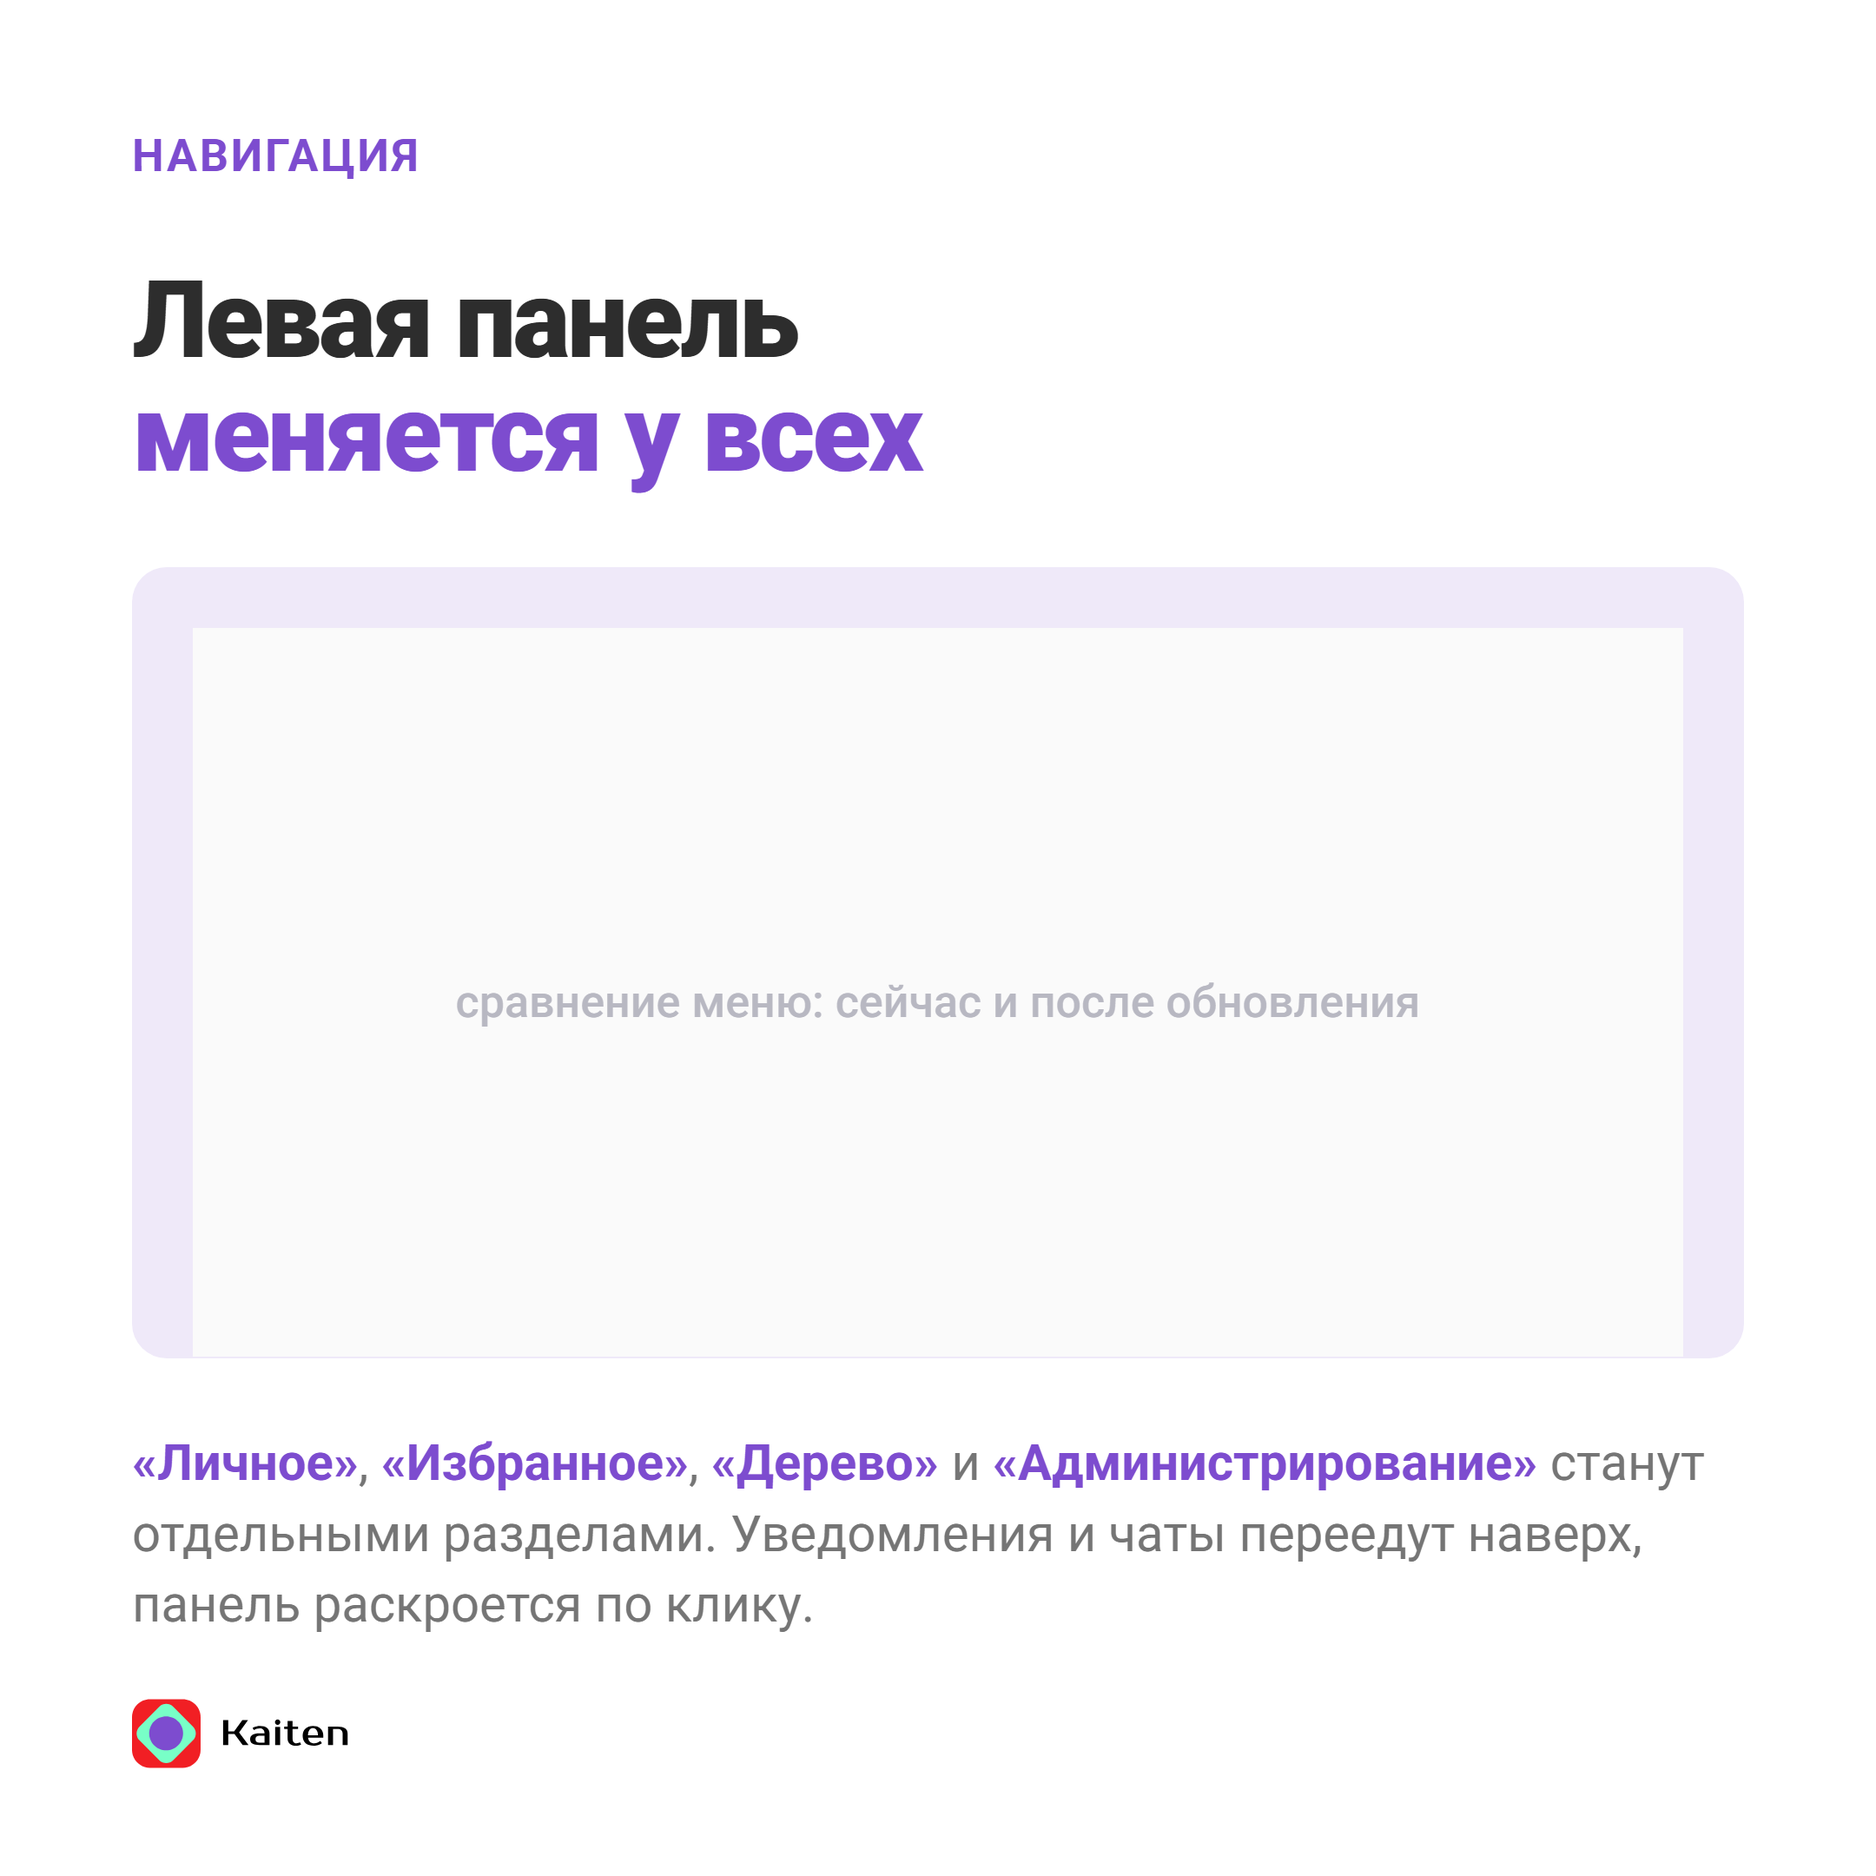
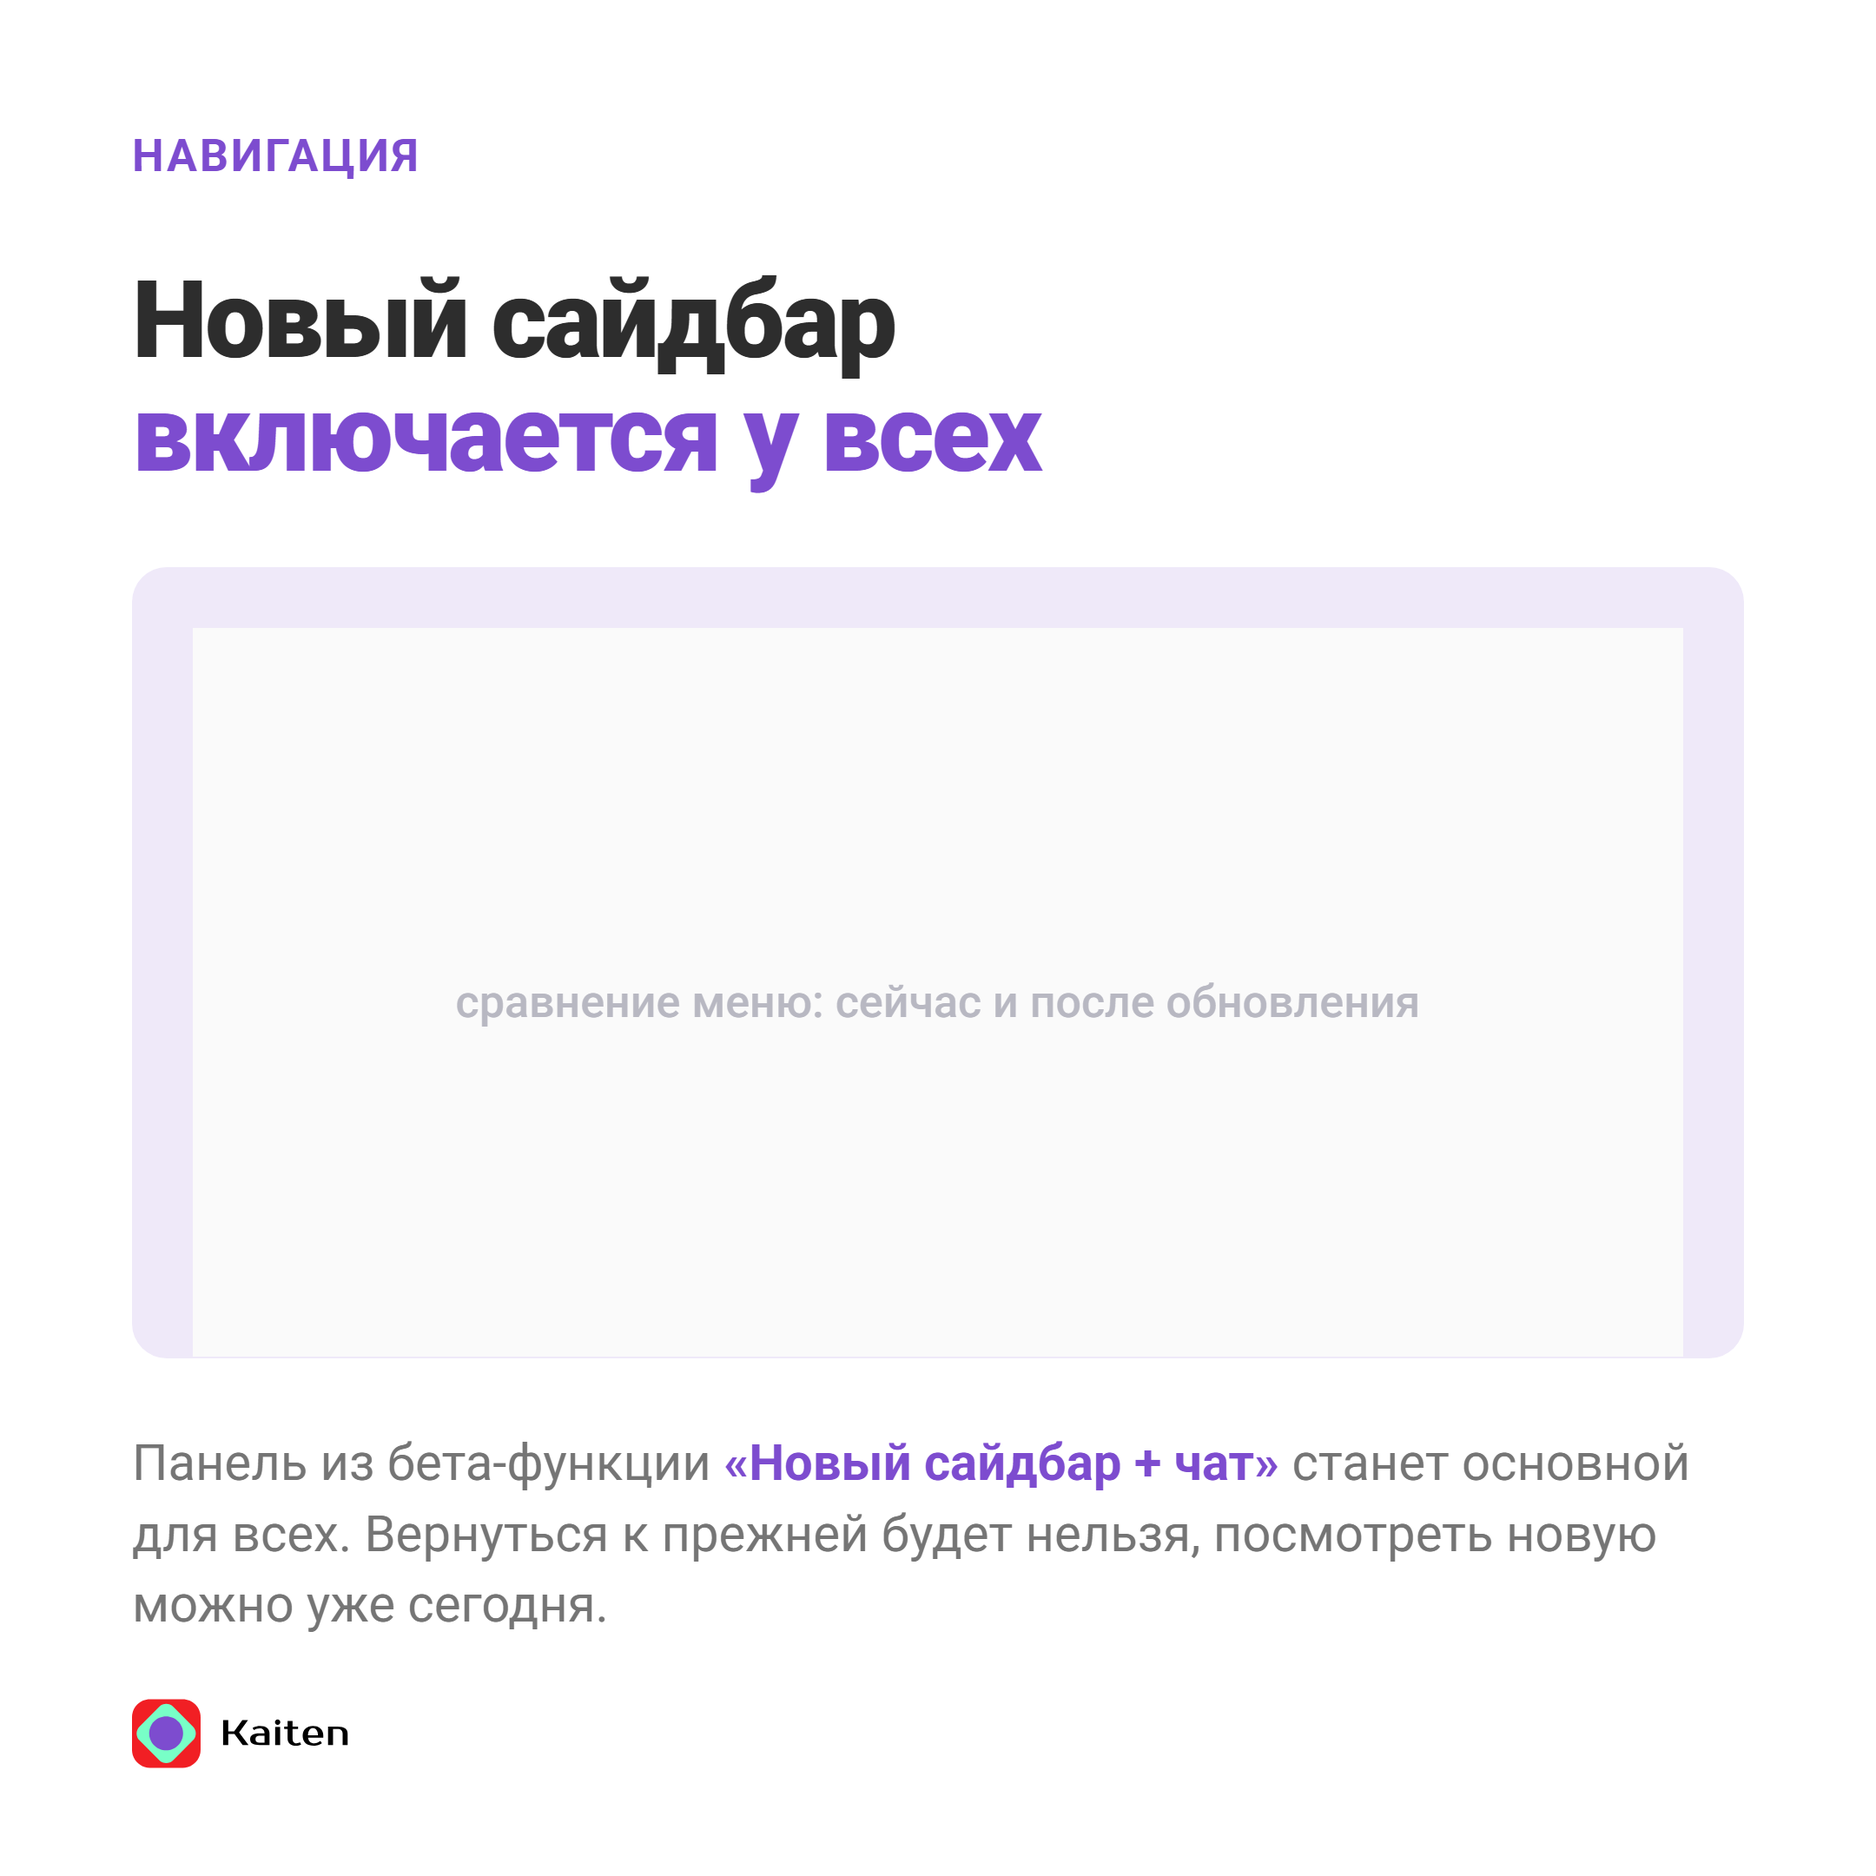
Переформулирован пост про навигацию после уточнения автора преданонса
Ольга Торощина поправила суть: это не обновление существующей панели, а вывод
новой из беты и раскатка на всех, а материал - преданонс, чтобы переход не стал
шоком. Формулировка страницы «обновится левая навигационная панель» суть занижала.

- заголовок: «новый сайдбар выходит из беты и включается у всех»
- добавлена связка «бета сегодня = раскатка через неделю» и фраза «пишем заранее»
- иллюстрация и ab-plan переписаны следом, цель поста зафиксирована как преданонс
- в отчёт добавлен автор как источник, приоритетный в части трактовки

Changed region(s): [[0.062, 0.7755, 0.8995, 0.8685], [0.062, 0.1241, 0.5583, 0.2792]]

diff --git a/content/posts/2026-09-03-novaya-navigaciya/img/navigaciya.html b/content/posts/2026-09-03-novaya-navigaciya/img/navigaciya.html
@@ -4,11 +4,11 @@
 <body data-w="1080" data-h="1080"><div class="frame" style="width:1080px;height:1080px">
 <div class="inner">
 <div class="head"><div class="kicker">Навигация</div></div>
-<h1 class="h">Левая панель<br><span class="hl">меняется у всех</span></h1>
+<h1 class="h">Новый сайдбар<br><span class="hl">включается у всех</span></h1>
 <div class="shot pad"><div class="stub" style="height:430px">сравнение меню: сейчас и после обновления</div></div>
-<div class="cap"><b>&laquo;Личное&raquo;</b>, <b>&laquo;Избранное&raquo;</b>,
-<b>&laquo;Дерево&raquo;</b> и <b>&laquo;Администрирование&raquo;</b> станут отдельными
-разделами. Уведомления и чаты переедут наверх, панель раскроется по клику.</div>
+<div class="cap">Панель из бета-функции <b>&laquo;Новый сайдбар + чат&raquo;</b>
+станет основной для всех. Вернуться к прежней будет нельзя, посмотреть новую
+можно уже сегодня.</div>
 <div class="foot"><img class="logo" src="kaiten-logo.svg" alt="Kaiten"/></div>
 </div>
 </div></body></html>

diff --git a/content/posts/2026-09-03-novaya-navigaciya/post.md b/content/posts/2026-09-03-novaya-navigaciya/post.md
@@ -45,6 +45,29 @@
 8. **«На следующей неделе новая навигация станет основной для всех пользователей.
    Вернуться к прежней панели будет нельзя.»**
 
+## ⚠ Уточнение автора преданонса (03.09.2026)
+
+Ольга Торощина, автор страницы, поправила формулировку:
+
+> Там не совсем обновление существующей. Новую панель навигации, которая сайдбар,
+> выводят из беты и раскатывают вообще на всех. Я писала преданонс, чтобы это шоком
+> не стало для людей.
+
+**Что это меняет в посте:**
+
+1. **Это не переработка прежней панели, а её замена.** Формулировка страницы
+   «обновится левая навигационная панель» занижает суть. Раскатывают **ту самую
+   панель, которая сейчас лежит в бета-функциях** под именем «Новый сайдбар + чат».
+2. **Связь беты и раскатки надо назвать прямо.** То, что читатель может включить
+   сегодня, и есть то, что приедет всем. Это делает приглашение в бету осмысленным,
+   а не приложением к посту.
+3. **Задача поста - преданонс, а не анонс возможности.** Цель: чтобы переход
+   не стал шоком. Отсюда интонация предупреждения и обязательная фраза
+   «пишем заранее».
+
+Источник считается **приоритетнее страницы** в части трактовки: страница описывает
+что изменится, автор объясняет чем это является.
+
 ## Чего на странице НЕТ (в пост не идёт)
 
 - Точной даты раскатки. Только «на следующей неделе» относительно публикации страницы.
@@ -92,17 +115,17 @@
 Заход: необратимость. В цитату вынесено «вернуться будет нельзя».
 
 ```post
-⚡ #Обновление: новая навигация — левая панель меняется у всех
+⚡ #Обновление: новый сайдбар выходит из беты и включается у всех
 
-На следующей неделе у всех пользователей Kaiten обновится левая навигационная панель. Все привычные функции сохранятся, изменятся их расположение и способ перехода между разделами.
+Новая панель навигации сейчас живет в бета-функциях. На следующей неделе она станет основной для всех пользователей Kaiten. Пишем заранее, чтобы это не стало неожиданностью.
 
-«Личное», «Избранное», «Дерево» и «Администрирование» станут отдельными разделами со своими значками. Уведомления переместятся в верхнюю часть панели, там же появится раздел с чатами. Пространства и документы останутся на прежнем месте.
+Это не переработка прежней панели, а замена. Слева появится компактная панель, где «Личное», «Избранное», «Дерево» и «Администрирование» станут отдельными разделами со своими значками. Уведомления и раздел с чатами переедут наверх, пространства и документы останутся на прежнем месте.
 
-Панель будет раскрываться по клику, а не при наведении. Она больше не появится случайно, когда курсор окажется у левого края экрана. Ширину панели можно регулировать.
+Панель раскрывается по клику, а не при наведении, и больше не появится случайно, когда курсор окажется у левого края экрана. Ширину можно регулировать. Все привычные функции сохранятся.
 
-> Новая навигация станет основной для всех пользователей. Вернуться к прежней панели будет нельзя.
+> Вернуться к прежней панели будет нельзя. Посмотреть новую можно уже сегодня, не дожидаясь раскатки.
 
-Посмотреть на неe можно уже сейчас: аватар, раздел «Бета-функции», функция «Новый сайдбар + чат». Если бета-функции недоступны, их включает администратор в разделе «Настройки компании».
+Включить: аватар, раздел «Бета-функции», функция «Новый сайдбар + чат». Если бета-функции недоступны, их разрешает администратор компании в разделе «Настройки компании».
 
 🔗 Подробнее — в инструкции
 ```
